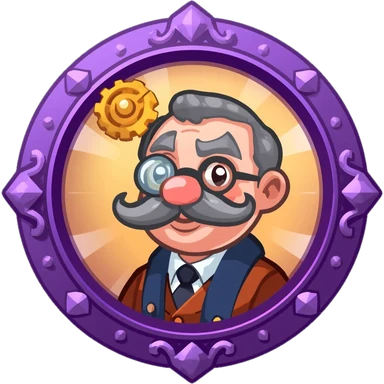
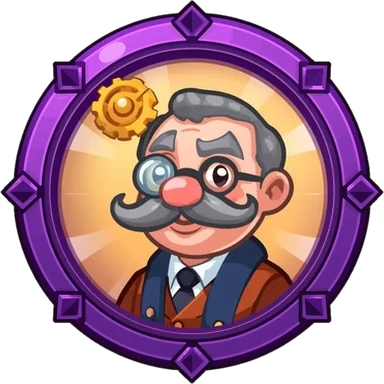
Losetas por tablero, carteles de entrada y salida, Oria, Garra y Eco nuevos, marco de épicas y comandantes equilibrados
- Cada tablero usa sus losetas (assets/tiles, de losetas-nuevas.jpg), una al azar por casilla.
- Carteles de Entrada y Salida de monstruos junto a la boca del camino.
- Elemento de cada tropa en las cartas de la partida.
- Retratos, figuras, aura, lobo y efectos nuevos de Oria, Garra y Eco (sin losa).
- Cronos, Halcón, Eco y Oria con el marco morado de rombos de Sombra.
- Vídeo de la ficha sobre un trozo del tablero del prado con su fila de losetas.
- Fichas del cofre de comandante y legendario sin nombres.
- Equilibrio de comandantes probado en partidas simuladas.

diff --git a/sw.js b/sw.js
@@ -2,8 +2,8 @@
 // Guarda el juego para poder jugar sin conexión. Página, JS y CSS van
 // primero a la red (así se ven los cambios al momento); imágenes y fuentes
 // salen de la caché y se renuevan por detrás.
-var CACHE = 'reino-de-torres-v71';
-var CORE = ['./', 'index.html', 'style.css', 'favicon.svg', 'manifest.json', 'js/data.js', 'js/version.js', 'js/art.js', 'js/meta.js', 'js/board.js', 'js/battle.js', 'js/ui.js', 'assets/ui/boton.webp', 'assets/ui/boton-jugar.webp', 'assets/ui/banner-mazo.webp', 'assets/ui/hueco-cofre.webp', 'assets/ui/boton-duelo.webp', 'assets/ui/boton-coop.webp', 'assets/ui/banner-comandante.webp', 'assets/ui/header.webp', 'assets/ui/navbar.webp', 'assets/ui/titulo.webp', 'assets/ui/letrero.webp', 'assets/tablero.webp', 'assets/enemies/blob.webp', 'assets/ui/fondo.webp', 'assets/ui/boton-invocar.webp', 'assets/ui/marco-carta.webp', 'assets/ui/carta.webp', 'assets/ui/vida.webp', 'assets/ui/mana.webp', 'assets/ui/contador-mana.webp', 'assets/ui/comandante.webp', 'assets/ui/boton-invocar-2.webp', 'assets/ui/boton-invocar-gris.webp', 'assets/ui/marco.webp', 'assets/ui/marco-tienda.webp', 'assets/ui/filtro-rareza.webp', 'assets/ui/filtro-rareza-h.webp?v=2', 'assets/ui/modo-campana.webp', 'assets/ui/modo-duelo.webp', 'assets/ui/modo-coop.webp', 'assets/ui/modo-torneo.webp', 'assets/ui/modo-coop-limpio.webp', 'assets/ui/modo-roguelike.webp', 'assets/chests/destello.webp', 'assets/chests/moneda.webp', 'assets/chests/oro-monedas.webp', 'assets/chests/oro-saco.webp', 'assets/chests/oro-cofre.webp', 'assets/commanders/aria.webp?v=2', 'assets/commanders/aria-cuerpo.webp', 'assets/commanders/merlo.webp?v=2', 'assets/commanders/merlo-cuerpo.webp', 'assets/commanders/brann.webp?v=2', 'assets/commanders/brann-cuerpo.webp', 'assets/commanders/nyx.webp', 'assets/commanders/nyx-cuerpo.webp', 'assets/commanders/sol.webp', 'assets/commanders/sol-cuerpo.webp', 'assets/commanders/morgana.webp', 'assets/commanders/morgana-cuerpo.webp', 'assets/commanders/torvald.webp', 'assets/commanders/torvald-cuerpo.webp', 'assets/events/eclipse.webp', 'assets/events/lluvia.webp', 'assets/events/niebla.webp', 'assets/events/horda.webp', 'assets/events/calma.webp', 'assets/boards/lava2.webp', 'assets/boards/hielo.webp', 'assets/boards/roca.webp', 'assets/boards/veneno.webp', 'assets/ui/tarjeta-tienda.webp', 'assets/ui/misiones.webp', 'assets/fx/eco-resuena.webp', 'assets/fx/fusion-eco.webp', 'assets/fx/oria-interes.webp', 'assets/fx/garra-lobo.webp', 'assets/fx/garra-lobo-2.webp', 'assets/ui/tarjeta-comandante-2.webp', 'assets/ui/arbol-talentos.webp', 'assets/ui/arbol-comandante.webp', 'assets/fx/nyx-maldicion.webp', 'assets/fx/nyx-chispas.webp', 'assets/fx/sol-escudo.webp', 'assets/fx/morgana-ensamblaje.webp', 'assets/fx/torvald-forja.webp', 'assets/fx/torvald-carga.webp', 'assets/fx/ventisca.webp', 'assets/fx/marea.webp', 'assets/fx/meteoro.webp', 'assets/fx/crater.webp', 'assets/fx/boreas-ventisca.webp', 'assets/fx/midas-critico.webp', 'assets/fx/estado-helado.webp', 'assets/fx/estado-armadura.webp', 'assets/fx/estado-quemado.webp', 'assets/fx/estado-veneno.webp', 'assets/fx/estado-critico.webp', 'assets/fx/estado-aturdido.webp', 'assets/chests/oro-rebosante.webp', 'assets/tiles/altar.webp', 'assets/tiles/fuente.webp', 'assets/tiles/atalaya.webp', 'assets/fx/muerte-puf.webp', 'assets/fx/invocar.webp', 'assets/fx/fusion.webp', 'assets/fx/fusion-doblon.webp', 'assets/fx/mover.webp', 'assets/fx/ralentizado-1.webp', 'assets/fx/ralentizado-2.webp', 'assets/fx/ralentizado-3.webp', 'assets/fx/ralentizado-4.webp', 'assets/fx/ralentizado-5.webp', 'assets/fx/conector-fuego.webp', 'assets/fx/conector-hielo.webp', 'assets/fx/conector-naturaleza.webp', 'assets/fx/conector-arcano.webp', 'assets/fx/conector-metal.webp'].concat(['lyra', 'brasa', 'nivea', 'doblon', 'rocco', 'volta', 'mirra', 'melodia', 'sombra', 'cronos', 'halcon', 'ulric', 'fenix', 'aurora', 'titan', 'boreas', 'midas', 'kaia', 'seren', 'oria', 'garra'].map(function (id) { return 'assets/cells/' + id + '.webp'; })).concat(['piedra-1'].map(function (k) { return 'assets/tiles/' + k + '.webp?v=2'; })).concat(['comun', 'rara', 'epica', 'mitica', 'legendaria'].map(function (k) { return 'assets/ui/tienda-' + k + '.webp'; })).concat(['lyra', 'brasa', 'nivea', 'doblon', 'rocco', 'volta', 'mirra', 'melodia', 'sombra', 'cronos', 'halcon', 'ulric', 'fenix', 'aurora', 'titan', 'boreas', 'midas', 'kaia', 'seren', 'eco', 'oria', 'garra'].map(function (id) { return 'assets/units/' + id + '.webp'; })).concat(['lyra', 'brasa', 'nivea', 'doblon', 'rocco', 'volta', 'mirra', 'melodia', 'sombra', 'cronos', 'halcon', 'ulric', 'fenix', 'aurora', 'titan', 'boreas', 'midas', 'kaia', 'seren'].reduce(function (a, id) { return a.concat(['assets/units/board/' + id + '-idle.webp?v=2', 'assets/units/board/' + id + '-attack.webp']); }, [])).concat(['eco', 'oria', 'garra'].map(function (id) { return 'assets/units/board/' + id + '-idle.webp?v=2'; })).concat(['madera', 'plata', 'oro', 'comandante', 'legendario'].reduce(function (a, k) { return a.concat(['assets/chests/' + k + '.webp', 'assets/chests/' + k + '-abierto.webp', 'assets/chests/portal-' + k + '.webp']); }, ['assets/chests/legendario-abriendo.webp']).concat(['comun', 'rara', 'epica', 'mitica', 'legendaria'].reduce(function (a, k) { return a.concat(['assets/ui/fondo-carta-' + k + '.webp', 'assets/ui/cinta-' + k + '.webp']); }, []))).concat(['fuego', 'hielo', 'veneno', 'canon', 'flecha', 'rayo', 'sombra', 'engranaje', 'bala', 'luz'].reduce(function (a, k) { return a.concat(['destello', 'bola', 'impacto'].map(function (p) { return 'assets/fx/' + k + '-' + p + '.webp'; })); }, [])).concat(['moneda', 'gema', 'trofeo', 'estrella', 'gota', 'corona', 'espadas', 'escudo', 'candado', 'pergamino', 'ticket', 'reloj', 'fuego', 'hielo', 'hoja', 'arcano', 'engranaje', 'explosion', 'veneno', 'rayo', 'critico', 'perfora', 'musica', 'diana', 'grafico', 'vecinas', 'chispas', 'calavera', 'ola', 'rival-facil', 'rival-normal', 'rival-dificil', 'derrota', 'sonido', 'silencio', 'rapido', 'reiniciar', 'casa', 'aviso', 'mano', 'dado', 'recolocar', 'mejorar'].map(function (k) { return 'assets/icons/' + k + '.webp'; })).concat(['ghost', 'brute', 'orco', 'rocoso', 'escarcha', 'gelido', 'coloso', 'coloso2', 'nigro', 'dragon'].map(function (id) { return 'assets/enemies/' + id + '.webp'; }));
+var CACHE = 'reino-de-torres-v72';
+var CORE = ['./', 'index.html', 'style.css', 'favicon.svg', 'manifest.json', 'js/data.js', 'js/version.js', 'js/art.js', 'js/meta.js', 'js/board.js', 'js/battle.js', 'js/ui.js', 'assets/ui/boton.webp', 'assets/ui/boton-jugar.webp', 'assets/ui/banner-mazo.webp', 'assets/ui/hueco-cofre.webp', 'assets/ui/boton-duelo.webp', 'assets/ui/boton-coop.webp', 'assets/ui/banner-comandante.webp', 'assets/ui/header.webp', 'assets/ui/navbar.webp', 'assets/ui/titulo.webp', 'assets/ui/letrero.webp', 'assets/tablero.webp', 'assets/enemies/blob.webp', 'assets/ui/fondo.webp', 'assets/ui/boton-invocar.webp', 'assets/ui/marco-carta.webp', 'assets/ui/carta.webp', 'assets/ui/vida.webp', 'assets/ui/mana.webp', 'assets/ui/contador-mana.webp', 'assets/ui/comandante.webp', 'assets/ui/boton-invocar-2.webp', 'assets/ui/boton-invocar-gris.webp', 'assets/ui/marco.webp', 'assets/ui/marco-tienda.webp', 'assets/ui/filtro-rareza.webp', 'assets/ui/filtro-rareza-h.webp?v=2', 'assets/ui/modo-campana.webp', 'assets/ui/modo-duelo.webp', 'assets/ui/modo-coop.webp', 'assets/ui/modo-torneo.webp', 'assets/ui/modo-coop-limpio.webp', 'assets/ui/modo-roguelike.webp', 'assets/chests/destello.webp', 'assets/chests/moneda.webp', 'assets/chests/oro-monedas.webp', 'assets/chests/oro-saco.webp', 'assets/chests/oro-cofre.webp', 'assets/commanders/aria.webp?v=2', 'assets/commanders/aria-cuerpo.webp', 'assets/commanders/merlo.webp?v=2', 'assets/commanders/merlo-cuerpo.webp', 'assets/commanders/brann.webp?v=2', 'assets/commanders/brann-cuerpo.webp', 'assets/commanders/nyx.webp', 'assets/commanders/nyx-cuerpo.webp', 'assets/commanders/sol.webp', 'assets/commanders/sol-cuerpo.webp', 'assets/commanders/morgana.webp', 'assets/commanders/morgana-cuerpo.webp', 'assets/commanders/torvald.webp', 'assets/commanders/torvald-cuerpo.webp', 'assets/events/eclipse.webp', 'assets/events/lluvia.webp', 'assets/events/niebla.webp', 'assets/events/horda.webp', 'assets/events/calma.webp', 'assets/boards/lava2.webp', 'assets/boards/hielo.webp', 'assets/boards/roca.webp', 'assets/boards/veneno.webp', 'assets/ui/tarjeta-tienda.webp', 'assets/ui/misiones.webp', 'assets/fx/eco-resuena.webp', 'assets/fx/fusion-eco.webp', 'assets/fx/oria-interes.webp', 'assets/fx/garra-lobo.webp', 'assets/fx/garra-lobo-2.webp', 'assets/ui/tarjeta-comandante-2.webp', 'assets/ui/arbol-talentos.webp', 'assets/ui/arbol-comandante.webp', 'assets/fx/nyx-maldicion.webp', 'assets/fx/nyx-chispas.webp', 'assets/fx/sol-escudo.webp', 'assets/fx/morgana-ensamblaje.webp', 'assets/fx/torvald-forja.webp', 'assets/fx/torvald-carga.webp', 'assets/fx/ventisca.webp', 'assets/fx/marea.webp', 'assets/fx/meteoro.webp', 'assets/fx/crater.webp', 'assets/fx/boreas-ventisca.webp', 'assets/fx/midas-critico.webp', 'assets/fx/estado-helado.webp', 'assets/fx/estado-armadura.webp', 'assets/fx/estado-quemado.webp', 'assets/fx/estado-veneno.webp', 'assets/fx/estado-critico.webp', 'assets/fx/estado-aturdido.webp', 'assets/chests/oro-rebosante.webp', 'assets/tiles/altar.webp', 'assets/tiles/fuente.webp', 'assets/tiles/atalaya.webp', 'assets/fx/muerte-puf.webp', 'assets/fx/invocar.webp', 'assets/fx/fusion.webp', 'assets/fx/fusion-doblon.webp', 'assets/fx/mover.webp', 'assets/fx/ralentizado-1.webp', 'assets/fx/ralentizado-2.webp', 'assets/fx/ralentizado-3.webp', 'assets/fx/ralentizado-4.webp', 'assets/fx/ralentizado-5.webp', 'assets/fx/conector-fuego.webp', 'assets/fx/conector-hielo.webp', 'assets/fx/conector-naturaleza.webp', 'assets/fx/conector-arcano.webp', 'assets/fx/conector-metal.webp', 'assets/ui/cartel-entrada.webp', 'assets/ui/cartel-salida.webp'].concat(['lyra', 'brasa', 'nivea', 'doblon', 'rocco', 'volta', 'mirra', 'melodia', 'sombra', 'cronos', 'halcon', 'ulric', 'fenix', 'aurora', 'titan', 'boreas', 'midas', 'kaia', 'seren', 'oria', 'garra'].map(function (id) { return 'assets/cells/' + id + '.webp'; })).concat(['piedra-1'].map(function (k) { return 'assets/tiles/' + k + '.webp?v=2'; })).concat([['bosque', 12], ['lava', 12], ['hielo', 4], ['veneno', 12], ['roca', 12]].reduce(function (a, t) { for (var n = 1; n <= t[1]; n++) a.push('assets/tiles/' + t[0] + '-' + n + '.webp?v=2'); return a; }, [])).concat(['comun', 'rara', 'epica', 'mitica', 'legendaria'].map(function (k) { return 'assets/ui/tienda-' + k + '.webp'; })).concat(['lyra', 'brasa', 'nivea', 'doblon', 'rocco', 'volta', 'mirra', 'melodia', 'sombra', 'cronos', 'halcon', 'ulric', 'fenix', 'aurora', 'titan', 'boreas', 'midas', 'kaia', 'seren', 'eco', 'oria', 'garra'].map(function (id) { return 'assets/units/' + id + '.webp'; })).concat(['lyra', 'brasa', 'nivea', 'doblon', 'rocco', 'volta', 'mirra', 'melodia', 'sombra', 'cronos', 'halcon', 'ulric', 'fenix', 'aurora', 'titan', 'boreas', 'midas', 'kaia', 'seren'].reduce(function (a, id) { return a.concat(['assets/units/board/' + id + '-idle.webp?v=3', 'assets/units/board/' + id + '-attack.webp']); }, [])).concat(['eco', 'oria', 'garra'].map(function (id) { return 'assets/units/board/' + id + '-idle.webp?v=3'; })).concat(['madera', 'plata', 'oro', 'comandante', 'legendario'].reduce(function (a, k) { return a.concat(['assets/chests/' + k + '.webp', 'assets/chests/' + k + '-abierto.webp', 'assets/chests/portal-' + k + '.webp']); }, ['assets/chests/legendario-abriendo.webp']).concat(['comun', 'rara', 'epica', 'mitica', 'legendaria'].reduce(function (a, k) { return a.concat(['assets/ui/fondo-carta-' + k + '.webp', 'assets/ui/cinta-' + k + '.webp']); }, []))).concat(['fuego', 'hielo', 'veneno', 'canon', 'flecha', 'rayo', 'sombra', 'engranaje', 'bala', 'luz'].reduce(function (a, k) { return a.concat(['destello', 'bola', 'impacto'].map(function (p) { return 'assets/fx/' + k + '-' + p + '.webp'; })); }, [])).concat(['moneda', 'gema', 'trofeo', 'estrella', 'gota', 'corona', 'espadas', 'escudo', 'candado', 'pergamino', 'ticket', 'reloj', 'fuego', 'hielo', 'hoja', 'arcano', 'engranaje', 'explosion', 'veneno', 'rayo', 'critico', 'perfora', 'musica', 'diana', 'grafico', 'vecinas', 'chispas', 'calavera', 'ola', 'rival-facil', 'rival-normal', 'rival-dificil', 'derrota', 'sonido', 'silencio', 'rapido', 'reiniciar', 'casa', 'aviso', 'mano', 'dado', 'recolocar', 'mejorar'].map(function (k) { return 'assets/icons/' + k + '.webp'; })).concat(['ghost', 'brute', 'orco', 'rocoso', 'escarcha', 'gelido', 'coloso', 'coloso2', 'nigro', 'dragon'].map(function (id) { return 'assets/enemies/' + id + '.webp'; }));
 self.addEventListener('install', function (e) { e.waitUntil(caches.open(CACHE).then(function (c) { return c.addAll(CORE); }).then(function () { return self.skipWaiting(); })); });
 self.addEventListener('activate', function (e) { e.waitUntil(caches.keys().then(function (ks) { return Promise.all(ks.filter(function (k) { return k !== CACHE; }).map(function (k) { return caches.delete(k); })); }).then(function () { return self.clients.claim(); })); });
 self.addEventListener('fetch', function (e) {

diff --git a/js/ui.js b/js/ui.js
@@ -253,7 +253,7 @@ function renderMenu(name, arg) {
       cmdTreeHtml(meta.commander, cc.lv) +
       // nivel del comandante: sus cartas salen en el cofre de comandante
       '<div class="uc-level cmd-level"><span class="uc-lvmedal">' + cc.lv + '</span><div class="uc-lvbody"><div class="uc-lvtop"><b>' + (cMax ? 'Nivel máximo' : 'Nivel ' + cc.lv) + '</b>' +
-      (cMax ? '' : '<span class="uc-gain">💪 ' + Math.round(cmdMult(cc.lv) * 100) + '% → <b>' + Math.round(cmdMult(cc.lv + 1) * 100) + '%</b></span>') + '</div>' +
+      (cMax ? '' : '<span class="uc-gain">💪 ' + Math.round(cmdGrow(meta.commander, cc.lv) * 100) + '% → <b>' + Math.round(cmdGrow(meta.commander, cc.lv + 1) * 100) + '%</b></span>') + '</div>' +
       '<div class="ubar' + (canUpgradeCmd(meta.commander) ? ' ok' : '') + '"><span style="width:' + (cMax ? 100 : Math.min(100, cc.n / cNeed * 100)) + '%"></span><em>' + (cMax ? 'MÁX' : cc.n + '/' + cNeed) + '</em></div></div></div>' +
       (cMax ? '' : '<button class="btn btn-up cmd-upbtn" id="cmdUp" ' + (canUpgradeCmd(meta.commander) ? '' : 'disabled') + '>⬆ Mejorar ' + cGold + ' 🪙</button>' + (cWhy ? '<p class="cmd-why">' + cWhy + '</p>' : '')) +
       '<p class="muted">🎁 Las cartas de comandante salen en el cofre de comandante: lo ganas en el Torneo y está en la tienda.</p>';
@@ -851,12 +851,19 @@ function showLockedCard(id) {
   $('mcX').onclick = closeOverlay;
 }
 
-/* Mini partida en la ficha de una tropa: la tropa en su casilla disparando
-   a los monstruos que pasan por el camino (Melodía, con Lyra al lado). */
+/* Mini partida en la ficha de una tropa: un trozo del tablero del prado
+   (el camino de arriba y la primera fila de losetas) con la tropa en su
+   loseta disparando a los monstruos que pasan (Melodía, con Lyra al lado).
+   DEMO_CROP: el recorte de la ilustración, en sus píxeles. */
+var DEMO_CROP = { x: 420, y: 112, w: 880, h: 335 };
 function startCardDemo(cv, id) {
   if (!cv) return;
-  var W = 6, H = 2.5, PY = 1.9;
-  var geo = makeGeo({ W: W, H: H, x0: 2.5, y0: 0.4, cw: 1, ch: 1, way: [{ x: -0.6, y: PY }, { x: W + 0.6, y: PY }] });
+  var F = FIELDS.prado, cell = (F.gx1 - F.gx0) / COLS, D = DEMO_CROP;
+  var W = D.w / cell, H = D.h / cell, PY = (F.way[3][1] - D.y) / cell;
+  var ch = (F.gy1 - F.gy0) / ROWS / cell, y0 = (F.gy0 - D.y) / cell, col0 = (F.gx0 - D.x) / cell;
+  // la tropa en la casilla del centro de la fila (y su pareja, en la de al lado)
+  var geo = makeGeo({ W: W, H: H, x0: col0 + 2, y0: y0, cw: 1, ch: ch, way: [{ x: -0.6, y: PY }, { x: W + 0.6, y: PY }] });
+  var floor = [3, 7, 1, 10, 5].map(function (n) { return 'bosque-' + n; });
   var pair = UNITS[id].buff || UNITS[id].wild;
   var deck = pair ? [id, 'lyra'] : [id];
   var lv = {}; deck.forEach(function (k) { lv[k] = meta.cards[k] ? meta.cards[k].lv : 1; });
@@ -886,13 +893,25 @@ function startCardDemo(cv, id) {
     var g = dc.createLinearGradient(0, 0, 0, chh); g.addColorStop(0, '#6fc322'); g.addColorStop(1, '#4f9a1c');
     dc.fillStyle = g; dc.fillRect(0, 0, cw, chh);
     dc.save(); dc.translate(ox, oy); dc.scale(sc, sc);
-    dc.fillStyle = '#c9a66b'; dc.fillRect(-1, PY - 0.42, W + 2, 0.84);
-    dc.fillStyle = '#e6c78c'; dc.fillRect(-1, PY - 0.36, W + 2, 0.72);
+    var pic = art(F.image);
+    if (pic) {
+      var kx = pic.naturalWidth / F.iw, ky = pic.naturalHeight / F.ih;
+      dc.drawImage(pic, D.x * kx, D.y * ky, D.w * kx, D.h * ky, 0, 0, W, H);
+    } else {
+      dc.fillStyle = '#c9a66b'; dc.fillRect(-1, PY - 0.42, W + 2, 0.84);
+      dc.fillStyle = '#e6c78c'; dc.fillRect(-1, PY - 0.36, W + 2, 0.72);
+    }
+    // la fila de losetas, como en la partida
+    floor.forEach(function (k, ci) {
+      var tp = art('tiles/' + k);
+      if (!tp) return;
+      var tw = 1.02, th = Math.min(tw * tp.naturalHeight / tp.naturalWidth, ch * 1.16);
+      dc.drawImage(tp, col0 + ci + 0.5 - tw / 2, y0 - 0.02, tw, th);
+    });
     for (var i = 0; i < 2; i++) {
       if (!b.cells[i]) continue;
       var c = b.cc(i), u = b.cells[i];
-      dc.fillStyle = 'rgba(0,0,0,0.18)'; rrect(dc, c.x - 0.46, c.y - 0.46, 0.92, 0.92, 0.14); dc.fill();
-      drawUnit(dc, u.id, c.x, c.y - 0.02, 0.42 * (1 + u.anim * 0.25), u.rank, t, { board: true, atk: u.atk, aim: u.aim, recoil: u.recoil || 0 });
+      drawUnit(dc, u.id, c.x, c.y - 0.02, 0.42 * ch * (1 + u.anim * 0.25), u.rank, t, { board: true, atk: u.atk, aim: u.aim, recoil: u.recoil || 0 });
     }
     b.enemies.slice().sort(function (p, q) { return p.y - q.y; }).forEach(function (e) {
       drawEnemy(dc, e, ENEMIES[e.kind].size * 0.82, t);
@@ -1027,17 +1046,13 @@ function showChestInfo(k, slot) {
     '<div class="chest-pic closed"><div class="chest-pic-glow"><img class="chest-pic-rays" src="assets/chests/destello.webp" alt=""></div><img class="chest-pic-img" id="ciPic" src="' + chestPic(k) + '" alt=""></div>' +
     '<h2>' + ch.name + '</h2>' +
     (ch.legendOnly ? '' : '<div class="ci-loot"><span><b>' + ch.cards + '</b>cartas</span><span><b>' + ch.gold[0] + ' a ' + ch.gold[1] + '</b>🪙 oro</span><span><b>' + ch.gems[0] + ' a ' + ch.gems[1] + '</b>💎 gemas</span></div>') +
+    // legendario y de comandante: qué trae, sin decir qué tropa o comandante toca
     (ch.legendOnly
-      ? (function (ls) {
-        return ls.map(function (id) {
-          return row(RARITY.legendaria.color, UNITS[id].name, meta.cards[id] ? 'Nivel ' + meta.cards[id].lv : 'Aún no la tienes', '').replace('<i></i>', '<img class="ci-face" src="' + unitIcon(id, 0, 64) + '" alt="">');
-        }).join('') + '<p class="ci-note">Solo trae una carta, siempre legendaria y al azar.</p>';
-      })(UNIT_ORDER.filter(function (id) { return UNITS[id].rarity === 'legendaria'; }))
+      ? row(RARITY.legendaria.color, 'Legendaria', 'Una tropa legendaria al azar', '1 carta') +
+        '<p class="ci-note">Solo trae una carta, siempre legendaria. Puede ser una que aún no tienes.</p>'
       : ch.cmd
-      // el de comandante: qué comandantes pueden tocar, con su nivel
-      ? COMMANDER_ORDER.map(function (c) {
-        return row(COMMANDERS[c].color, COMMANDERS[c].name, cmdOwned(c) ? 'Nivel ' + cmdLevel(c) : 'Aún no lo tienes', '').replace('<i></i>', '<img class="ci-face" src="' + COMMANDERS[c].pic + '" alt="">');
-      }).join('') + '<p class="ci-note">Trae ' + CHESTS.comandante.cards + ' cartas, todas de un mismo comandante al azar. Con ellas subes su nivel.</p>'
+      ? row(ch.color, 'Comandante', 'Uno al azar, aunque aún no lo tengas', ch.cards + ' cartas') +
+        '<p class="ci-note">Todas las cartas son de un mismo comandante. Con ellas subes su nivel.</p>'
       : '<h3 class="ci-t">Probabilidad por cofre</h3>' +
       row(RARITY.rara.color, 'Rara', '', chestOdds(ch.rare, ch.cards)) +
       row(RARITY.epica.color, 'Épica', '', chestOdds(ch.epic, ch.cards)) +
@@ -1314,7 +1329,7 @@ function buildBattleHud() {
   var b = battle;
   var deck = $('deckBar');
   deck.innerHTML = b.player.deck.map(function (id) {
-    return '<button class="dcard" data-power="' + id + '" style="--rc:' + RARITY[UNITS[id].rarity].color + '"><img src="' + unitIcon(id, 0, 96) + '" alt=""><span class="dlv" id="dlv_' + id + '">1</span><span class="dcost" id="dcost_' + id + '">100</span></button>';
+    return '<button class="dcard" data-power="' + id + '" style="--rc:' + RARITY[UNITS[id].rarity].color + '"><img src="' + unitIcon(id, 0, 96) + '" alt=""><span class="dlv" id="dlv_' + id + '">1</span><span class="del" title="' + ELEMENTS[UNITS[id].element].name + '">' + icons(ELEMENTS[UNITS[id].element].icon) + '</span><span class="dcost" id="dcost_' + id + '">100</span></button>';
   }).join('');
   deck.querySelectorAll('[data-power]').forEach(function (btn) {
     // invocación dirigida: mantener pulsada la carta invoca esa tropa (el doble de maná)

diff --git a/js/data.js b/js/data.js
@@ -401,6 +401,10 @@ var ELEMENTS = {
 Object.keys(ELEMENTS).forEach(function (k) { ELEMENTS[k].color = GAME_PALETTE.elements[k]; });
 var AFFINITY_BONUS = 0.12;
 
+// losetas de cada tablero (assets/tiles/<juego>-<n>, de assets/losetas-nuevas.jpg)
+var FIELD_TILES = { prado: { set: 'bosque', n: 12 }, lava2: { set: 'lava', n: 12 }, hielo: { set: 'hielo', n: 4 }, veneno: { set: 'veneno', n: 12 }, roca: { set: 'roca', n: 12 } };
+var STONE_TILE = 'piedra-1';
+
 /* Casillas especiales del tablero: cambian en cada partida. */
 var TILES = {
   altar:   { name: 'Altar',   icon: '⚔', color: '#ff5a6a', desc: '+35% de daño a la tropa que esté encima.', dmg: 0.35 },
@@ -411,17 +415,17 @@ var TILES = {
 /* Comandantes: habilidad que se carga con el tiempo. power: fuerza a nivel 1
    (aria: segundos de congelación · merlo: maná · brann: daño del meteoro). */
 var COMMANDERS = {
-  aria:  { name: 'Aria',  title: 'Capitana de Escarcha', color: '#7fd6ff', icon: '🌨', pic: 'assets/commanders/aria.webp?v=2', ability: 'Ventisca',  desc: 'Congela a todos los enemigos 3 segundos.', power: 3, cd: 30 },
-  merlo: { name: 'Merlo', title: 'Archimago',            color: '#b26bff', icon: '✨', pic: 'assets/commanders/merlo.webp?v=2', ability: 'Marea de maná', desc: 'Te da 120 de maná al instante.', power: 120, cd: 35 },
-  brann: { name: 'Brann', title: 'General Enano',        color: '#ff8f3c', icon: '☄', pic: 'assets/commanders/brann.webp?v=2', ability: 'Meteoro',   desc: 'Un meteorito golpea a los enemigos más adelantados.', power: 520, cd: 28 },
+  aria:  { name: 'Aria',  title: 'Capitana de Escarcha', color: '#7fd6ff', icon: '🌨', pic: 'assets/commanders/aria.webp?v=2', ability: 'Ventisca',  desc: 'Congela a todos los enemigos 3 segundos.', power: 3, cd: 30, grow: 0.75 },
+  merlo: { name: 'Merlo', title: 'Archimago',            color: '#b26bff', icon: '✨', pic: 'assets/commanders/merlo.webp?v=2', ability: 'Marea de maná', desc: 'Te da 150 de maná al instante, y más en las oleadas avanzadas.', power: 150, cd: 28 },
+  brann: { name: 'Brann', title: 'General Enano',        color: '#ff8f3c', icon: '☄', pic: 'assets/commanders/brann.webp?v=2', ability: 'Meteoro',   desc: 'Caen 6 meteoritos sobre los monstruos más adelantados.', power: 6, cd: 28 },
   // los cuatro nuevos (de assets/pack-nyx-sol-morgana-tormal.jpg) empiezan
   // bloqueados (locked) y se consiguen en los cofres
-  nyx:   { name: 'Nyx',   title: 'Hechicera del Eclipse', color: '#c04bff', icon: '🌑', locked: true, pic: 'assets/commanders/nyx.webp', ability: 'Maldición', desc: 'Los monstruos reciben un 60% más de daño durante 6 segundos.', power: 6, cd: 32 },
-  sol:   { name: 'Sol',   title: 'Paladín del Alba',      color: '#ffc83a', icon: '☀', locked: true, pic: 'assets/commanders/sol.webp', ability: 'Escudo divino', desc: 'Durante 5 segundos no pierdes vidas.', power: 5, cd: 40 },
+  nyx:   { name: 'Nyx',   title: 'Hechicera del Eclipse', color: '#c04bff', icon: '🌑', locked: true, pic: 'assets/commanders/nyx.webp', ability: 'Maldición', desc: 'Los monstruos reciben un 60% más de daño durante 8 segundos.', power: 8, cd: 28 },
+  sol:   { name: 'Sol',   title: 'Paladín del Alba',      color: '#ffc83a', icon: '☀', locked: true, pic: 'assets/commanders/sol.webp', ability: 'Escudo divino', desc: 'Durante 6 segundos no pierdes vidas y los monstruos van un 35% más lentos.', power: 6, cd: 30, grow: 0.5 },
   // héroes: su habilidad se usa sobre el tablero eligiendo tropas (hero: cuántas);
   // con nivel se cargan antes en vez de tener más fuerza
   morgana: { name: 'Morgana', title: 'Inventora', color: '#2fd6a0', icon: '⚙', locked: true, pic: 'assets/commanders/morgana.webp', hero: 2, ability: 'Ensamblaje', desc: 'Eliges dos tropas del mismo rango, aunque sean distintas, y se fusionan.', power: 1, cd: 30 },
-  torvald: { name: 'Torvald', title: 'Viejo Maestro', color: '#ff7a3c', icon: '🧮', locked: true, pic: 'assets/commanders/torvald.webp', hero: 1, ability: 'Forja', desc: 'Eliges una tropa y sube un rango, hasta el 5.', power: 1, cd: 110 }
+  torvald: { name: 'Torvald', title: 'Viejo Maestro', color: '#ff7a3c', icon: '🧮', locked: true, pic: 'assets/commanders/torvald.webp', hero: 1, ability: 'Forja', desc: 'Eliges una tropa y sube un rango, hasta el 5.', power: 1, cd: 90, grow: 0.6 }
 };
 var COMMANDER_ORDER = ['aria', 'merlo', 'brann', 'nyx', 'sol', 'morgana', 'torvald'];
 COMMANDER_ORDER.forEach(function (k) { var c = COMMANDERS[k]; c.body = c.gen ? '' : 'assets/commanders/' + k + '-cuerpo.webp'; });
@@ -433,18 +437,22 @@ var CMD_BONUS = 0.08, CMD_BONUS_HIGH = 0.03;
 function cmdMult(lv) { lv = lv || 1; return 1 + CMD_BONUS * (Math.min(lv, 10) - 1) + CMD_BONUS_HIGH * Math.max(0, lv - 10); }
 function cmdCardsNeeded(lv) { return [0, 1, 2, 3, 4, 5, 7, 9, 12, 15, 18, 21, 24, 27, 30, 34, 38, 42, 46, 50, 55, 60, 65, 70, 80][lv] || 999; }
 function cmdUpgradeGold(lv) { return [0, 100, 250, 500, 900, 1400, 2100, 3000, 4200, 6000, 7000, 8000, 9000, 10000, 11500, 13000, 14500, 16000, 18000, 20000, 22500, 25000, 28000, 32000, 36000][lv] || 99999; }
+// lo que gana cada comandante con su nivel: grow < 1 lo frena (Aria, Torvald)
+function cmdGrow(k, lv) { return 1 + (cmdMult(lv) - 1) * (COMMANDERS[k].grow || 1); }
 // fuerza de la habilidad a un nivel, y su texto
-function cmdPower(k, lv) { return COMMANDERS[k].power * cmdMult(lv); }
+function cmdPower(k, lv) { return COMMANDERS[k].power * cmdGrow(k, lv); }
 // segundos de carga: los héroes se cargan antes con cada nivel
-function cmdCd(k, lv) { var c = COMMANDERS[k]; return c.hero ? Math.round(c.cd / cmdMult(lv)) : c.cd; }
+function cmdCd(k, lv) { var c = COMMANDERS[k]; return c.hero ? Math.round(c.cd / cmdGrow(k, lv)) : c.cd; }
+// meteoritos de Brann: 6, y con nivel caen más (9 al 10, 11 al 25)
+function brannMeteors(lv) { return 6 + Math.floor((cmdMult(lv) - 1) * 5); }
 function cmdDesc(k, lv) {
   var p = cmdPower(k, lv), sec = String(Math.round(p * 10) / 10).replace('.', ',');
   if (COMMANDERS[k].hero) return COMMANDERS[k].desc;
   if (k === 'nyx') return 'Los monstruos reciben un 60% más de daño durante ' + sec + ' segundos.';
-  if (k === 'sol') return 'Durante ' + sec + ' segundos no pierdes vidas.';
+  if (k === 'sol') return 'Durante ' + sec + ' segundos no pierdes vidas y los monstruos van un 35% más lentos.';
   if (k === 'aria') return 'Congela a todos los enemigos ' + String(Math.round(p * 10) / 10).replace('.', ',') + ' segundos.';
-  if (k === 'merlo') return 'Te da ' + Math.round(p) + ' de maná al instante.';
-  return 'Un meteorito golpea a los enemigos más adelantados con un ' + Math.round(cmdMult(lv) * 100) + '% de fuerza.';
+  if (k === 'merlo') return 'Te da ' + Math.round(p) + ' de maná al instante, y más en las oleadas avanzadas.';
+  return 'Caen ' + brannMeteors(lv) + ' meteoritos sobre los monstruos más adelantados.';
 }
 
 /* Árbol de habilidades de cada comandante: con el nivel CMD_TREE_LV[piso]
@@ -455,7 +463,7 @@ var CMD_TREE_LV = [5, 25];
 var CMD_TREE_PICK = [1, 2];
 var CMD_TREE = {
   aria: [
-    [{ id: 'cortante', name: 'Escarcha cortante', desc: 'La Ventisca también hace daño a todos los monstruos.', add: { cmdDmg: 150 } },
+    [{ id: 'cortante', name: 'Escarcha cortante', desc: 'La Ventisca también hace daño a todos los monstruos.', add: { cmdDmg: 1.2 } },
      { id: 'largo', name: 'Invierno largo', desc: 'La Ventisca congela un 50% más de tiempo.', mul: { cmdPowerMult: 1.5 } }],
     [{ id: 'recarga', name: 'Recarga', desc: 'Se carga un 30% más rápido.', mul: { chargeMult: 1.3 } },
      { id: 'eterno', name: 'Hielo eterno', desc: 'Tras la Ventisca, los monstruos van un 30% más lentos 4 segundos.', set: { cmdSlow: 0.3 } },

diff --git a/js/board.js b/js/board.js
@@ -38,7 +38,7 @@ var VECTOR_GEO = makeGeo({ W: BOARD_W, H: BOARD_H, x0: PATH_W, y0: PATH_W, cw: 1
    recorrido de los monstruos (way). 1 unidad = ancho de una casilla. */
 var FIELDS = {
   // prado (assets/tablero.*): entran por el camino de abajo y salen por el mismo
-  prado: { image: 'board/tablero', iw: 1672, ih: 941, cx: 250, cy: 110, cw: 1180, ch: 831, fade: true,
+  prado: { image: 'board/tablero', iw: 1672, ih: 941, cx: 250, cy: 110, cw: 1180, ch: 831, fade: true, signOff: 1.45,
     gx0: 477, gy0: 315, gx1: 1196, gy1: 690,
     way: [[805, 990], [805, 767], [322, 767], [322, 185], [1352, 185], [1352, 767], [866, 767], [866, 990]] },
   // lava, el único de volcán y cripta: anillo (volteado de assets/tablero-lava-invertido.jpg): salen por
@@ -69,7 +69,7 @@ function fieldGeo(id) {
   var f = FIELDS[id], cell = (f.gx1 - f.gx0) / COLS;
   var P = function (q) { return { x: (q[0] - f.cx) / cell, y: (q[1] - f.cy) / cell }; };
   return makeGeo({
-    image: f.image, px: f,
+    image: f.image, px: f, field: id,
     W: f.cw / cell, H: f.ch / cell,
     x0: (f.gx0 - f.cx) / cell, y0: (f.gy0 - f.cy) / cell, cw: 1, ch: (f.gy1 - f.gy0) / ROWS / cell,
     way: f.way.map(P)
@@ -121,6 +121,9 @@ function Board(opts) {
   this.deck.forEach(function (id) { this.power[id] = 1; }, this);
   this.cells = new Array(COLS * ROWS).fill(null);
   this.tiles = {};
+  // losa de cada casilla: una de las del juego de su tablero, al azar (FIELD_TILES)
+  var ft = FIELD_TILES[this.geo.field];
+  this.floor = this.cells.map(function () { return ft ? ft.set + '-' + (1 + Math.floor(Math.random() * ft.n)) : STONE_TILE; });
   var spots = shuffleArr(Array.from({ length: COLS * ROWS }, function (_, i) { return i; }));
   ['altar', 'fuente', 'atalaya'].forEach(function (t, k) { this.tiles[spots[k]] = t; }, this);
   this.enemies = [];
@@ -185,6 +188,8 @@ Board.prototype.unitPower = function (id) {
   return (1 + POWER_BONUS * ((this.power[id] || 1) - 1)) * this.cardMult(id) * this.dmgMult * (1 + (this.elemBonus[UNITS[id].element] || 0));
 };
 // todo el maná que se gana pasa por aquí (con «Doble de maná» vale el doble); devuelve lo ganado
+// Escudo divino de Sol: además de guardar las vidas, frena a los monstruos
+var SOL_SLOW = 0.65;
 Board.prototype.addMana = function (n) {
   n *= this.manaMult;
   this.mana += n;
@@ -442,13 +447,14 @@ Board.prototype.useCommander = function (picks) {
     this.addFx('flash', { x: this.geo.W / 2, y: this.geo.H / 2 }, '#bfefff');
     this.addSweep('fx/ventisca');
   } else if (cmd === 'merlo') {
-    var gain = this.addMana(Math.round(pw));
+    // la marea crece con la partida: +6% por oleada
+    var gain = this.addMana(Math.round(pw * (1 + 0.06 * Math.max(0, (this.battle ? this.battle.wave : 1) - 1))));
     this.addText(this.geo.W / 2, this.geo.H / 2, '+' + gain + ' 💧', GAME_PALETTE.manaBlue, true);
     this.addFx('flash', { x: this.geo.W / 2, y: this.geo.H / 2 }, '#b26bff');
     this.addSweep('fx/marea');
   } else if (cmd === 'brann') {
     // caen uno tras otro sobre los más adelantados; el daño llega al tocar suelo
-    var targets = this.enemies.slice().sort(function (a, b) { return b.d - a.d; }).slice(0, 6 + this.extraMeteors);
+    var targets = this.enemies.slice().sort(function (a, b) { return b.d - a.d; }).slice(0, brannMeteors(this.cmdLv) + this.extraMeteors);
     var dmg = pw * hpScale();
     targets.forEach(function (e, k) {
       var t = METEOR_FALL + k * 0.09;
@@ -796,7 +802,7 @@ Board.prototype.update = function (dt) {
     if (e.critT > 0) e.critT -= dt;
     if (e.breakT > 0) e.breakT -= dt;
     if (e.stun > 0) { e.stun -= dt; }
-    else e.d += e.speed * evSpeed * (1 - e.slowPct) * dt;
+    else e.d += e.speed * evSpeed * (1 - e.slowPct) * (this.guardT > 0 ? SOL_SLOW : 1) * dt;
     var p2 = this.pos(e.d); e.x = p2.x; e.y = p2.y;
     if (e.boss) this.bossAbility(e, dt);
     if (e.d >= this.geo.len) {

diff --git a/js/battle.js b/js/battle.js
@@ -758,6 +758,7 @@ function drawBoard(b, L, now, isMain) {
       drawStoneTile(b, ti, b.cc(ti), G);
       if (tt) drawTileFloor(tt, b.cc(ti), G, ti, now);
     }
+    drawPathSigns(G);
   } else {
   // marco
   rrect(ctx, -0.12, -0.12, BOARD_W + 0.24, BOARD_H + 0.24, 0.35);
@@ -1120,11 +1121,33 @@ function drawTileFloor(type, cc, G, i, now) {
   var w = s * 0.58, h = w * pic.naturalHeight / pic.naturalWidth;
   ctx.drawImage(pic, cc.x - w / 2, cc.y - h / 2, w, h);
 }
-/* Losa de piedra de cada casilla: las 15 iguales, la lisa, en todos los mapas. */
-var STONE_TILE = 'piedra-1';
+/* Carteles de entrada y salida de los monstruos (assets/ui/cartel-*,
+   de assets/set-salida-entrada-monstruos.jpg), plantados junto a la boca
+   del camino: la entrada a su izquierda y la salida a su derecha, a F.signOff
+   de la boca; F.signs (píxeles de la ilustración, pie de cada cartel) los
+   coloca a mano. */
+var SIGN_W = 1.15;
+function drawPathSigns(G) {
+  var w = G.way, F = G.px, upx = F.cw / G.W;
+  var at = F.signs ? F.signs.map(function (q) { return { x: (q[0] - F.cx) / upx, y: (q[1] - F.cy) / upx }; })
+    : [{ x: w[0].x - (F.signOff || 0.7), y: Math.min(w[0].y, G.H - 0.05) }, { x: w[w.length - 1].x + (F.signOff || 0.7), y: Math.min(w[w.length - 1].y, G.H - 0.05) }];
+  ['entrada', 'salida'].forEach(function (k, i) {
+    var pic = art('ui/cartel-' + k);
+    if (!pic) return;
+    var h = SIGN_W * pic.naturalHeight / pic.naturalWidth;
+    ctx.drawImage(pic, at[i].x - SIGN_W / 2, at[i].y - h, SIGN_W, h);
+  });
+}
+/* Losa de cada casilla: la del juego de su tablero (b.floor, al azar en
+   cada partida); se ve de frente, con su canto abajo. Sin ella, la lisa. */
 function drawStoneTile(b, i, cc, G) {
-  var pic = art('tiles/' + STONE_TILE);
+  var pic = (b.floor && art('tiles/' + b.floor[i])) || art('tiles/' + STONE_TILE);
   if (!pic) return false;
+  if (b.floor && pic === art('tiles/' + b.floor[i])) {
+    var w = G.cw * 1.02, h = Math.min(w * pic.naturalHeight / pic.naturalWidth, G.ch * 1.16);
+    ctx.drawImage(pic, cc.x - w / 2, cc.y - G.ch / 2 - 0.02, w, h);
+    return true;
+  }
   var s = Math.min(G.cw, G.ch) * 0.97;
   ctx.fillStyle = 'rgba(10,12,30,0.3)';
   rrect(ctx, cc.x - s / 2 + 0.02, cc.y - s / 2 + 0.05, s, s, 0.08); ctx.fill();

diff --git a/js/version.js b/js/version.js
@@ -7,8 +7,27 @@
    La ventana sale sola al entrar con una versión nueva (meta.lastSeenVersion)
    y también desde Opciones.
    ========================================================= */
-var APP_VERSION = '1.16.3';
+var APP_VERSION = '1.17.0';
 var APP_PATCH_NOTES = [
+  {
+    version: '1.17.0',
+    summary: 'Losetas nuevas, carteles en el camino y comandantes equilibrados',
+    items: [
+      'Cada tablero tiene sus propias losetas: musgo en el prado, lava, hielo, veneno y roca, distintas en cada casilla.',
+      'Carteles de Entrada y Salida de monstruos junto al camino de cada tablero.',
+      'Las cartas de la partida enseñan su elemento arriba a la derecha.',
+      'Oria, Garra y Eco estrenan dibujos, y el lobo de Garra también.',
+      'Todas las épicas llevan el mismo marco morado con rombos.',
+      'El vídeo de cada tropa se ve en un trozo del tablero de verdad, con la tropa en su loseta.',
+      'Las fichas del cofre de comandante y del legendario ya no dicen quién puede tocar.',
+      'Merlo da 150 de maná, se carga en 28 s y da más en las oleadas avanzadas.',
+      'Brann tira más meteoros al subir de nivel: 9 al nivel 10 y 11 al 25.',
+      'Nyx: la Maldición dura 8 s y se carga en 28 s.',
+      'Sol: el Escudo dura 6 s, se carga en 30 s y además frena a los monstruos un 35%.',
+      'Torvald se carga en 90 s en vez de 110.',
+      'Aria: la Ventisca crece menos con el nivel y Escarcha cortante ya no barre a todos de un golpe.'
+    ]
+  },
   {
     version: '1.16.3',
     summary: 'Misiones con Reclamar y fichas de cofre más limpias',

diff --git a/js/art.js b/js/art.js
@@ -52,9 +52,9 @@ var NO_ATTACK_POSE = { eco: true, oria: true, garra: true };
 var IMG_LIST = {
   units: UNIT_ORDER.filter(function (id) { return !UNITS[id].noArt; }),
   enemies: ['blob', 'ghost', 'brute', 'orco', 'rocoso', 'escarcha', 'gelido', 'coloso', 'coloso2', 'nigro', 'dragon'],
-  tiles: ['altar', 'fuente', 'atalaya', 'piedra-1'],
+  tiles: ['altar', 'fuente', 'atalaya', 'piedra-1'].concat(Object.keys(FIELD_TILES).reduce(function (a, k) { var t = FIELD_TILES[k]; for (var n = 1; n <= t.n; n++) a.push(t.set + '-' + n); return a; }, [])),
   boards: ['lava2', 'hielo', 'roca', 'veneno'],
-  ui: ['boton', 'fondo', 'vida'],
+  ui: ['boton', 'fondo', 'vida', 'cartel-entrada', 'cartel-salida'],
   commanders: COMMANDER_ORDER,
   icons: ['estrella', 'gota', 'espadas', 'escudo'],
   chests: ['moneda'], // proyectil de Midas
@@ -175,7 +175,7 @@ Object.keys(POSES).forEach(function (id) {
   (NO_ATTACK_POSE[id] ? ['idle'] : ['idle', 'attack']).forEach(function (pose) {
     var im = new Image();
     im.onload = function () { im.ready = true; };
-    im.src = 'assets/units/board/' + id + '-' + pose + '.webp' + (pose === 'idle' ? '?v=2' : '');
+    im.src = 'assets/units/board/' + id + '-' + pose + '.webp' + (pose === 'idle' ? '?v=3' : '');
     IMG['pose/' + id + '-' + pose] = im;
   });
 });

diff --git a/index.html b/index.html
@@ -15,7 +15,7 @@
 <link rel="preconnect" href="https://fonts.googleapis.com">
 <link rel="preconnect" href="https://fonts.gstatic.com" crossorigin>
 <link href="https://fonts.googleapis.com/css2?family=Fredoka:wght@500;600;700&family=Lilita+One&family=Nunito:wght@700;800;900&family=Titan+One&display=swap" rel="stylesheet">
-<link rel="stylesheet" href="style.css?v=58">
+<link rel="stylesheet" href="style.css?v=59">
 </head>
 <body>
   <div id="menu" class="menu"></div>
@@ -57,12 +57,12 @@
   <div id="overlay" class="overlay" hidden></div>
   <div id="toast" class="toast"></div>
 
-  <script src="js/data.js?v=43"></script>
-  <script src="js/version.js?v=33"></script>
-  <script src="js/art.js?v=41"></script>
+  <script src="js/data.js?v=44"></script>
+  <script src="js/version.js?v=34"></script>
+  <script src="js/art.js?v=42"></script>
   <script src="js/meta.js?v=28"></script>
-  <script src="js/board.js?v=41"></script>
-  <script src="js/battle.js?v=49"></script>
-  <script src="js/ui.js?v=63"></script>
+  <script src="js/board.js?v=42"></script>
+  <script src="js/battle.js?v=50"></script>
+  <script src="js/ui.js?v=64"></script>
 </body>
 </html>

diff --git a/style.css b/style.css
@@ -580,6 +580,12 @@ body {
   background: radial-gradient(circle at 35% 30%, #fff3b0, #f5c400 55%, #c98a00); color: #3a1d00;
   border: 2px solid #3a2600; font-size: 0.78rem; box-shadow: 0 2px 0 rgba(0,0,0,0.35);
 }
+/* elemento de la tropa, arriba a la derecha (fuego, hielo, naturaleza…) */
+.del {
+  position: absolute; top: 3px; right: 3px; z-index: 1; width: 20px; height: 20px; display: grid; place-items: center;
+  border-radius: 50%; background: rgba(6,10,36,0.78); border: 1.5px solid rgba(255,214,90,0.8); box-shadow: 0 2px 0 rgba(0,0,0,0.35);
+}
+.del x-ico { width: 15px; height: 15px; margin: 0; vertical-align: 0; }
 .dcost {
   position: static; transform: none; width: 100%; margin-top: auto; padding: 3px 0 4px; border: none; border-radius: 0;
   background: linear-gradient(180deg, rgba(6,10,36,0.55), rgba(6,10,36,0.9)); border-top: 1px solid rgba(255,214,90,0.45);

diff --git a/README.md b/README.md
@@ -52,7 +52,7 @@ Tres cartas con mecánica propia (arte recortado de `assets/eco-set-imagenes-1.j
 - **Rasgos de posición**: Nívea pega más con otra Nívea al lado (`twin`), Mirra y Cronos con vecinas distintas (`mixed`) y Halcón en las casillas de fuera (`edge`).
 - **Casillas especiales** que cambian cada partida: Altar (+daño), Fuente (maná) y Atalaya (+velocidad).
 - **Afinidad elemental**: cada vecina del mismo elemento suma +12% de daño.
-- **Comandantes** con habilidad que se carga: Aria (Ventisca), Merlo (Marea de maná), Brann (Meteoro), Nyx (Maldición: +60% de daño recibido) y Sol (Escudo divino: no pierdes vidas). Efectos de los cuatro nuevos en `assets/fx/` (de `assets/pack-efectos-nyx-sol-morgana-tormal.jpg`): `nyx-maldicion` (anillo a los pies de los monstruos malditos) y `nyx-chispas`, `sol-escudo` (esfera en la salida), `morgana-ensamblaje` y `torvald-forja` y `torvald-carga`. **Héroes**, que usan su habilidad eligiendo tropas del tablero: Morgana (Transmutación: fusiona dos tropas cualesquiera del mismo rango) y Torvald (Forja: +1 rango hasta el 5; Morgana se carga en 30 s y Torvald en 110 s). Con nivel, los héroes se cargan antes (`cmdCd`). Nyx, Sol, Morgana y Torvald (arte de `assets/pack-nyx-sol-morgana-tormal.jpg`: retrato en círculo y figura con su losa, sin la barra de tiempo ni la esfera de luz) empiezan bloqueados (`locked`, `meta.cmdOwned`) y se consiguen con su primera carta de comandante en un cofre. **Árbol de habilidades** de cada comandante (`CMD_TREE`): en el nivel 5 se elige 1 rama de 2 y en el 25, 2 de 3 (`CMD_TREE_LV`, `CMD_TREE_PICK`); se aplican al empezar la partida (`applyCmdNode`) y el rival elige al azar. Suben de nivel hasta el 25 (+8% de fuerza por nivel hasta el 10 y +3% del 11 al 25) con las cartas del cofre de comandante (10 cartas de un mismo comandante al azar; el cofre de oro trae 4 la mitad de las veces), que se gana en el Torneo y está en la tienda.
+- **Comandantes** con habilidad que se carga: Aria (Ventisca), Merlo (Marea de maná), Brann (Meteoro), Nyx (Maldición: +60% de daño recibido) y Sol (Escudo divino: no pierdes vidas). Efectos de los cuatro nuevos en `assets/fx/` (de `assets/pack-efectos-nyx-sol-morgana-tormal.jpg`): `nyx-maldicion` (anillo a los pies de los monstruos malditos) y `nyx-chispas`, `sol-escudo` (esfera en la salida), `morgana-ensamblaje` y `torvald-forja` y `torvald-carga`. **Héroes**, que usan su habilidad eligiendo tropas del tablero: Morgana (Transmutación: fusiona dos tropas cualesquiera del mismo rango) y Torvald (Forja: +1 rango hasta el 5; Morgana se carga en 30 s y Torvald en 90 s). Con nivel, los héroes se cargan antes (`cmdCd`). `grow` frena lo que gana con el nivel un comandante (Aria, Sol y Torvald); los meteoros de Brann pasan de 6 a 9 (nivel 10) y 11 (nivel 25) con `brannMeteors`; la Marea de Merlo sube un 6% por oleada y el Escudo de Sol también frena un 35% a los monstruos (`SOL_SLOW`). Nyx, Sol, Morgana y Torvald (arte de `assets/pack-nyx-sol-morgana-tormal.jpg`: retrato en círculo y figura con su losa, sin la barra de tiempo ni la esfera de luz) empiezan bloqueados (`locked`, `meta.cmdOwned`) y se consiguen con su primera carta de comandante en un cofre. **Árbol de habilidades** de cada comandante (`CMD_TREE`): en el nivel 5 se elige 1 rama de 2 y en el 25, 2 de 3 (`CMD_TREE_LV`, `CMD_TREE_PICK`); se aplican al empezar la partida (`applyCmdNode`) y el rival elige al azar. Suben de nivel hasta el 25 (+8% de fuerza por nivel hasta el 10 y +3% del 11 al 25) con las cartas del cofre de comandante (10 cartas de un mismo comandante al azar; el cofre de oro trae 4 la mitad de las veces), que se gana en el Torneo y está en la tienda.
 - **🏅 Torneo** (carta propia en la pantalla principal, con su pantalla de niveles y premio): duelo con tus cartas y las del rival a nivel de torneo (común 8, rara 6, épica 4, mítica 2, legendaria 1; `TOURNEY_LV` en `js/data.js`) y los dos comandantes al nivel 5. El rival puede llevar cualquier tropa. Tres formas de jugarlo (`TOURNEY_MODES`): Clásico (tu mazo), Mazo prestado (uno de `TOURNEY_DECKS` para cada uno) y Cartas al azar (cinco tropas al azar, con al menos tres que atacan). Sin trofeos; si ganas, cofre de comandante.
 - **Eventos de oleada**: Eclipse, Lluvia de maná, Niebla, Horda y Calma.
 - **Jefes** con habilidades: se dividen, congelan tropas, se blindan, invocan o queman rangos.
@@ -86,6 +86,7 @@ La ficha de cada tropa tiene dos pestañas: Vídeo (una mini partida con la trop
 - `assets/chests/*.webp`: cofres de madera, plata y oro (cerrado y `-abierto`), el destello que gira detrás al abrirlos, la moneda de las partículas y los tres paquetes de oro de la tienda. Recortados sin fondo de `assets/cofre-*.jpg`, `assets/destello-cofre.jpg` y `assets/oro.jpg`. El legendario (`legendario`, `legendario-abriendo`, que se ve un momento al abrirlo, y `legendario-abierto`) sale de `assets/cofre-legendario.jpg`, y su portal es el destello azul de esa hoja; la carta de ejemplo de la hoja no se usa porque lleva texto. `assets/ui/tarjeta-tienda.webp` (de `assets/tarjeta_unificada_tienda.jpg`) es el marco de madera y pizarra de todas las tarjetas de la tienda, y `assets/chests/oro-rebosante.webp` (de `assets/cofre-abierto.jpg`), el paquete grande de oro.
 - `assets/units/board/*-idle.webp` y `*-attack.webp`: las 15 tropas en el tablero sin chapa y de cuerpo entero, en reposo (de los originales `assets/set_*.jpg`) y atacando (de `assets/*-attacking.*`). Las dos poses van encuadradas igual: pies abajo en el centro y la figura ocupando el alto.
 - `assets/fx/<elemento>-<parte>.webp`: destello al disparar, proyectil e impacto de fuego (Brasa y Fénix), hielo (Nívea), veneno (Mirra) y cañón (Rocco y Titán), recortados de `assets/proyectiles_*.jpg`. El proyectil de fuego y hielo y el destello de hielo y cañón miran a la derecha y se giran hacia el enemigo.
+- `assets/tiles/<juego>-<n>.webp`: losetas de cada tablero (bosque para el prado, lava, hielo, veneno y roca; `FIELD_TILES`), de `assets/losetas-nuevas.jpg`; cada casilla saca una al azar en cada partida (`Board.floor`). `assets/ui/cartel-entrada.webp` y `cartel-salida.webp`, de `assets/set-salida-entrada-monstruos.jpg`, se plantan junto a la boca del camino de cada tablero (`drawPathSigns`).
 - `assets/commanders/*.webp`: retratos de Aria, Merlo y Brann y su cuerpo entero (`*-cuerpo.webp`), de `assets/set-aria-merlo-brann.jpg`. De la misma hoja salen `assets/ui/tarjeta-comandante.webp` (la tarjeta de la pestaña Comandante; el juego usa `tarjeta-comandante-2.webp`, la misma sin la fila de tres medallones, para los siete comandantes) y los efectos de sus habilidades en `assets/fx/`: `ventisca`, `marea`, `meteoro` y `crater`.
 - `assets/fx/estado-*.webp` (de `assets/set_efectos.jpg`): iconos sobre la cabeza de los monstruos, encima de su vida: congelado (aturdido por hielo: Aria, Bóreas) o aturdido (Cronos, Aurora), quemado (fuego) o envenenado, y un momento la armadura rota (golpe que perfora a un monstruo con armadura) y el crítico. Si tiene varios, van en fila (`drawStatus` en `js/art.js`).
 - `assets/events/*.webp`: medallones de los eventos de oleada (recortados de `assets/wave_events.jpg`).
